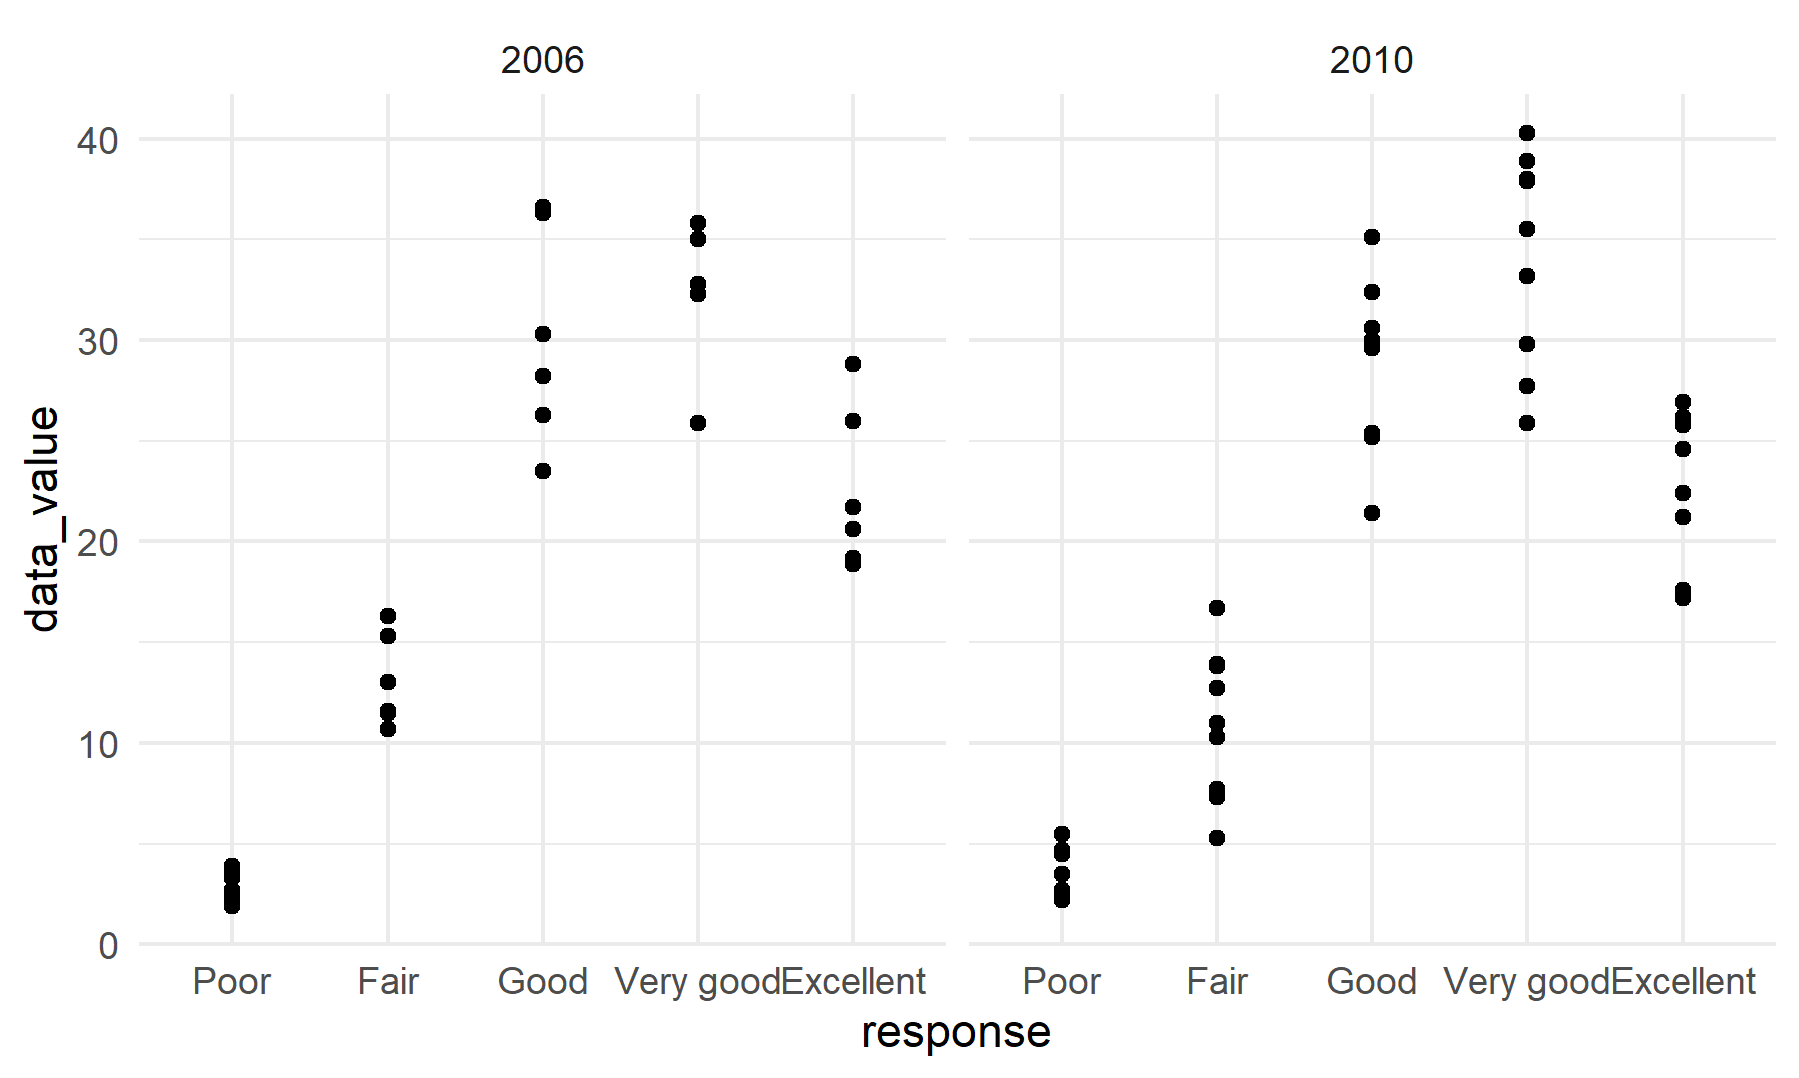
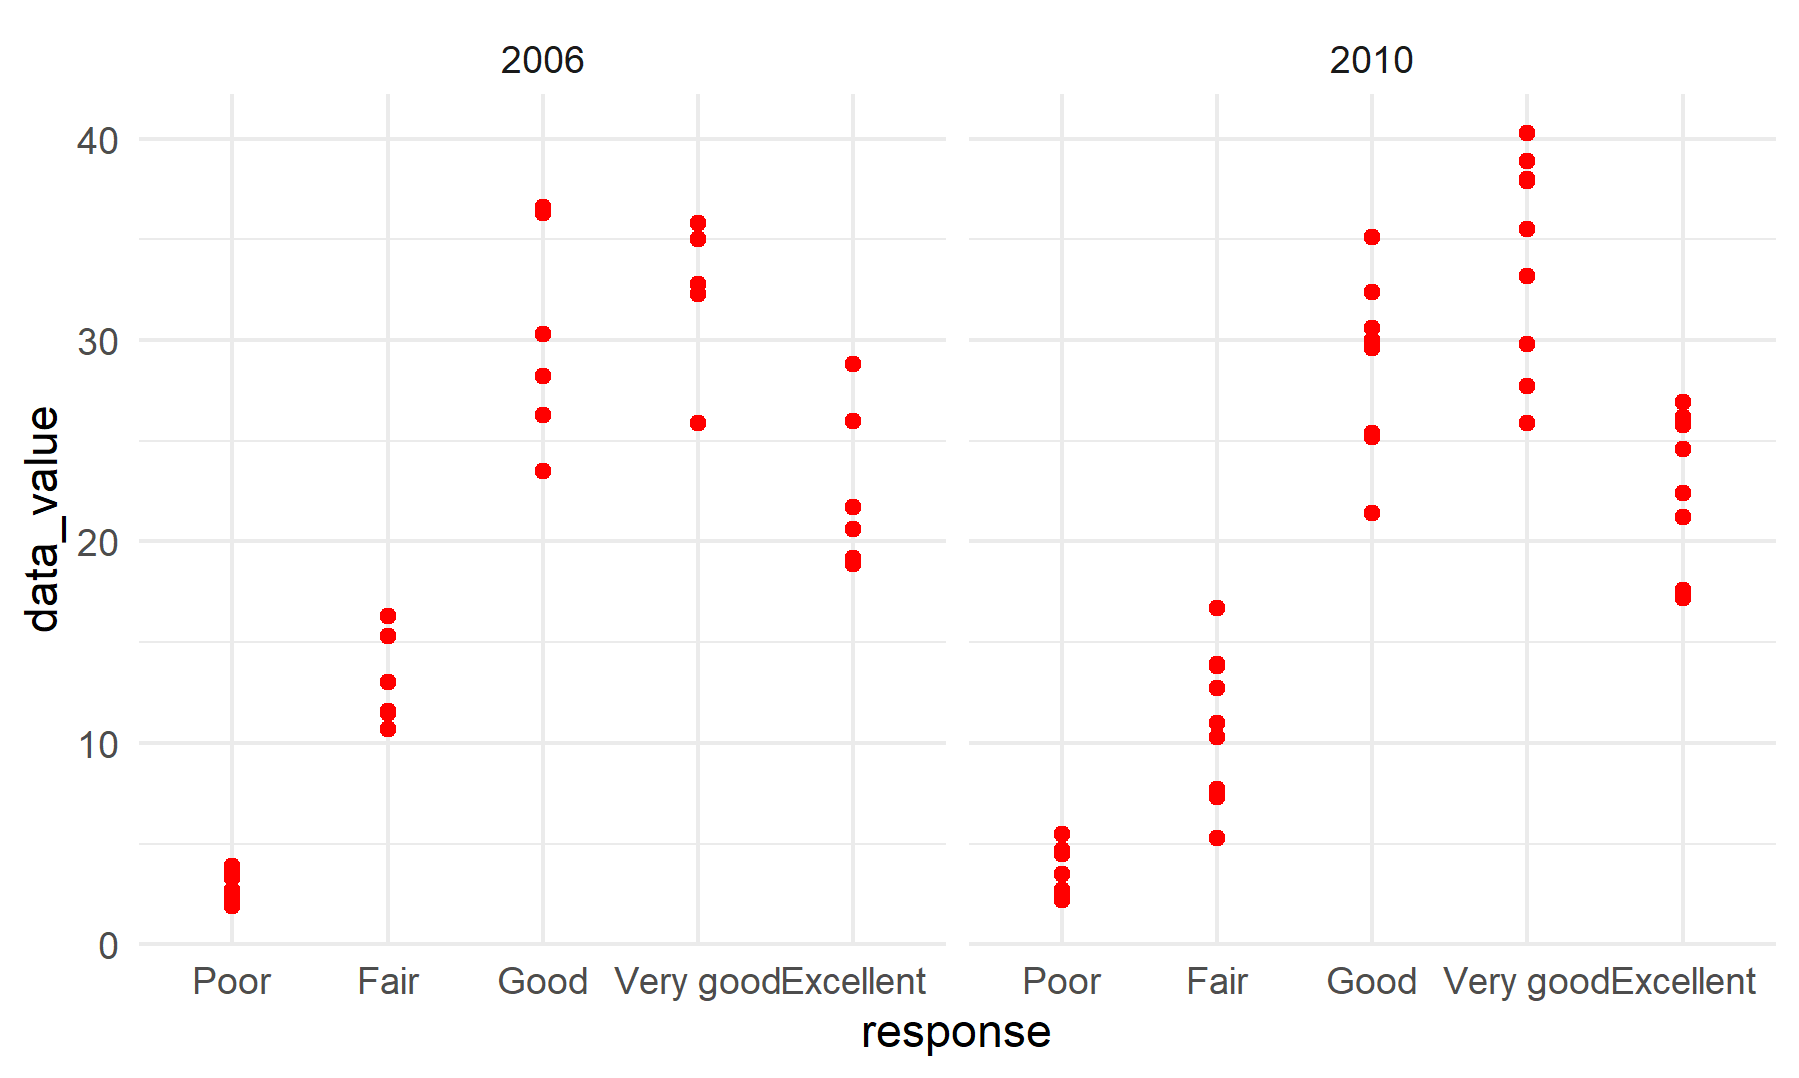
plot

diff --git a/p8105_hw3_bg2715.md b/p8105_hw3_bg2715.md
@@ -51,7 +51,7 @@ ai_plot = instacart %>%
   filter(n > 10000) %>%
   mutate(aisle = factor(aisle),
          aisle = fct_reorder(aisle, n)) %>% 
-  ggplot(aes(x = aisle, y = n)) + geom_point() + 
+  ggplot(aes(x = aisle, y = n)) + geom_point(colour = "#FF0000FF") + 
   theme(axis.text.x = element_text(angle = 90, hjust = 0.5, vjust = 0.5))
 
 ggsave("ai_plot.png")
@@ -236,7 +236,7 @@ panel_df = brfss_df %>%
     response, levels = c("Poor", "Fair", "Good",
                          "Very good", "Excellent"))) %>% 
   ggplot(aes(x = response, y = data_value)) + 
-  geom_point() + 
+  geom_point(colour = "#FF0000FF") + 
   facet_grid(.~year)
 
 ggsave("two_panel_plot.png")
